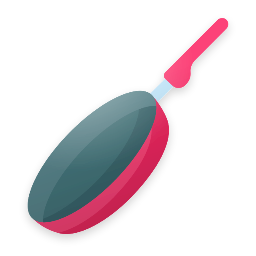
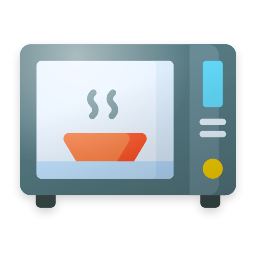
feat: 고단백·자취요리 카테고리 아이콘 교체 (근육 팔, 전자레인지)
- 고단백은 닭고기 재료 아이콘과 분리해 protein 키로 따로 둠

diff --git a/src/types.ts b/src/types.ts
@@ -13,7 +13,7 @@ export type Diet = '한식' | DietTag | '빠른조리';
 export const DIETS: { id: Diet; label: string; icon: IconName }[] = [
   { id: '한식', label: '한식', icon: 'korean-food' },
   { id: '다이어트', label: '다이어트식', icon: 'green-salad' },
-  { id: '고단백', label: '고단백', icon: 'poultry-leg' },
+  { id: '고단백', label: '고단백', icon: 'protein' },
   { id: '자취', label: '자취요리', icon: 'cooking' },
   { id: '저예산', label: '저예산', icon: 'coin' },
   { id: '빠른조리', label: '빠른조리', icon: 'stopwatch' },

diff --git a/src/data/assets.ts b/src/data/assets.ts
@@ -153,6 +153,7 @@ export const ICONS = {
   bowl: require('../../assets/ingredients/bowl.png'),
   'pot-of-food': require('../../assets/ingredients/pot-of-food.png'),
   'korean-food': require('../../assets/ingredients/korean-food.png'),
+  protein: require('../../assets/ingredients/protein.png'),
   'green-salad': require('../../assets/ingredients/green-salad.png'),
   cooking: require('../../assets/ingredients/cooking.png'),
   coin: require('../../assets/ingredients/coin.png'),

diff --git a/docs/flaticon-icons.md b/docs/flaticon-icons.md
@@ -1,6 +1,6 @@
 # Flaticon 재료 아이콘 다운로드 목록
 
-스타일: **Special Flat** (작가: Magnific/Freepik) · 88개
+스타일: **Special Flat** (작가: Magnific/Freepik) · 89개
 
 ## 받는 방법
 1. 아래 링크를 열고 **PNG · 512px**로 다운로드한다. (로그인 필요, 무료 회원은 하루 다운로드 수 제한이 있다)
@@ -57,7 +57,7 @@
 | `bowl.png` | 기타(그릇) | [porridge](https://www.flaticon.com/free-icon/porridge_8937785) |
 | `pot-of-food.png` | 육수 | [boiling](https://www.flaticon.com/free-icon/boiling_1761437) |
 | `green-salad.png` | 다이어트식(카테고리) | [salad](https://www.flaticon.com/free-icon/salad_1057357) |
-| `cooking.png` | 자취요리(카테고리) | [pan](https://www.flaticon.com/free-icon/pan_2702519) |
+| `cooking.png` | 자취요리(카테고리) | [oven](https://www.flaticon.com/free-icon/oven_2333537) |
 | `coin.png` | 저예산(카테고리) | [won](https://www.flaticon.com/free-icon/won_1999583) |
 | `stopwatch.png` | 빠른조리(카테고리) | [stopwatch](https://www.flaticon.com/free-icon/stopwatch_2055568) |
 | `kimchi.png` | 김치 | [kimchi](https://www.flaticon.com/free-icon/kimchi_12971418) |
@@ -101,3 +101,4 @@
 | `ginseng.png` | 인삼 | [ginseng](https://www.flaticon.com/free-icon/ginseng_4498477) |
 | `cinnamon.png` | 계피 | [cinnamon](https://www.flaticon.com/free-icon/cinnamon_1652100) |
 | `korean-food.png` | 한식(카테고리) | [hot](https://www.flaticon.com/free-icon/hot_2515249) |
+| `protein.png` | 고단백(카테고리) | [muscle](https://www.flaticon.com/free-icon/muscle_1599267) |
